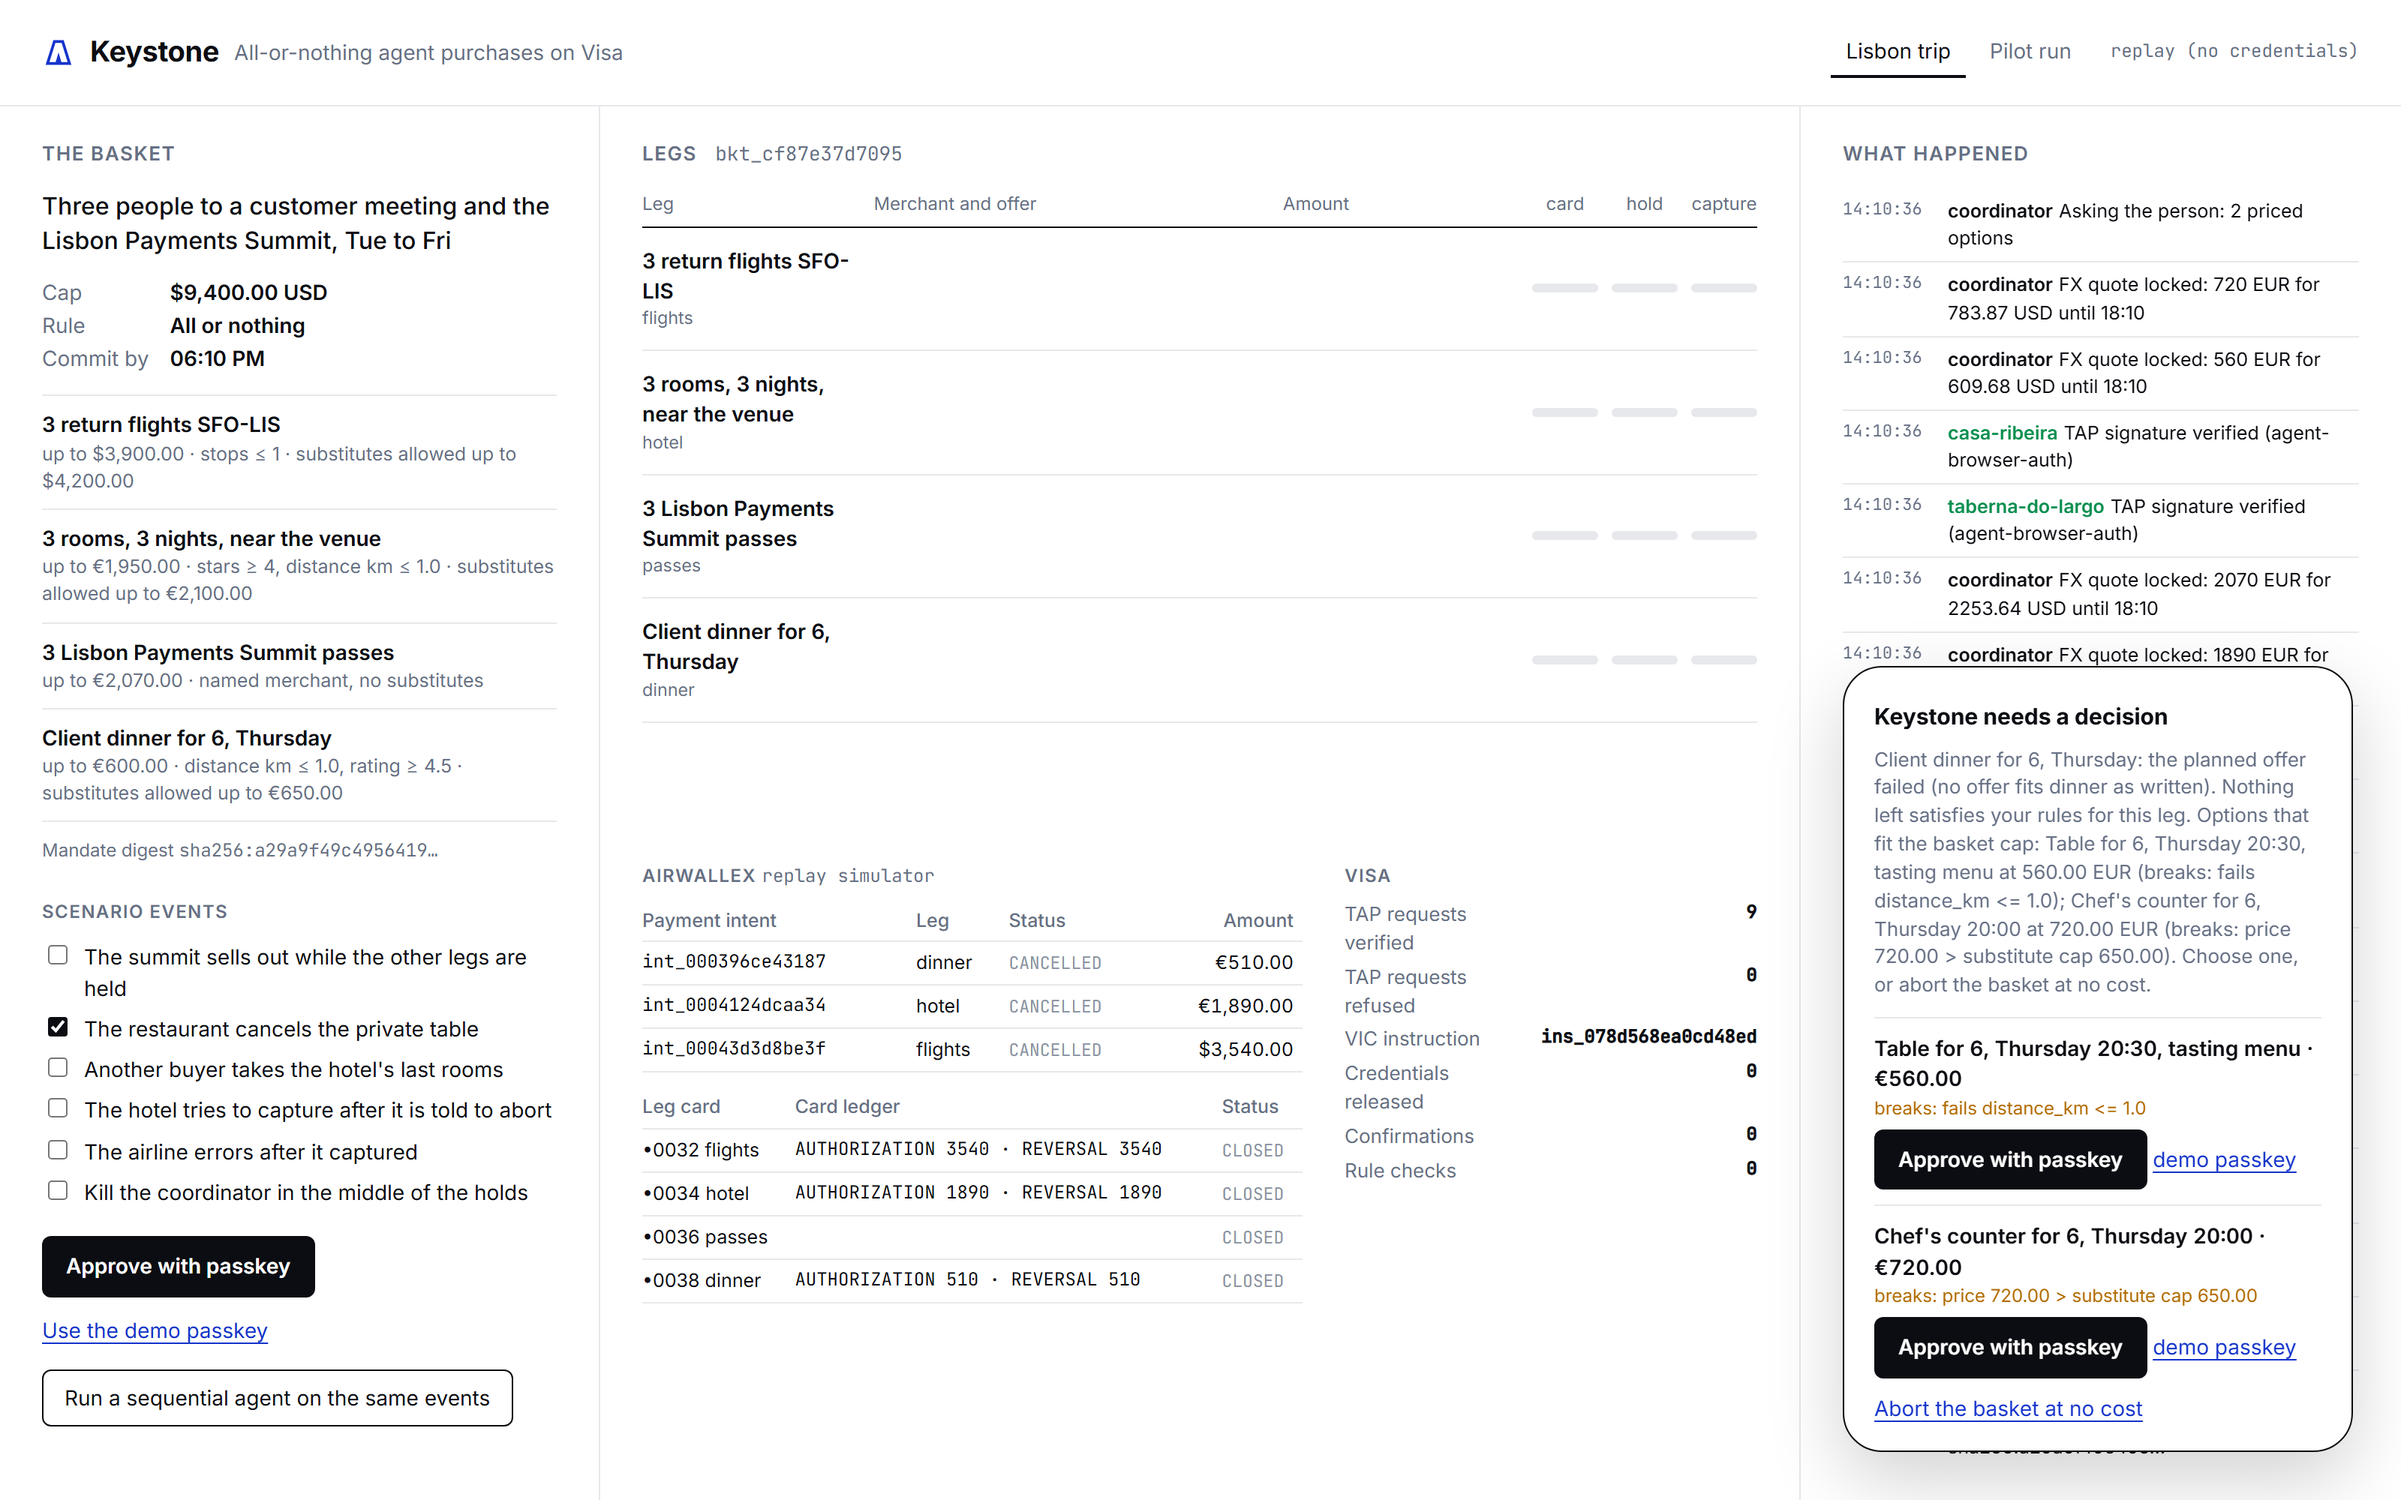
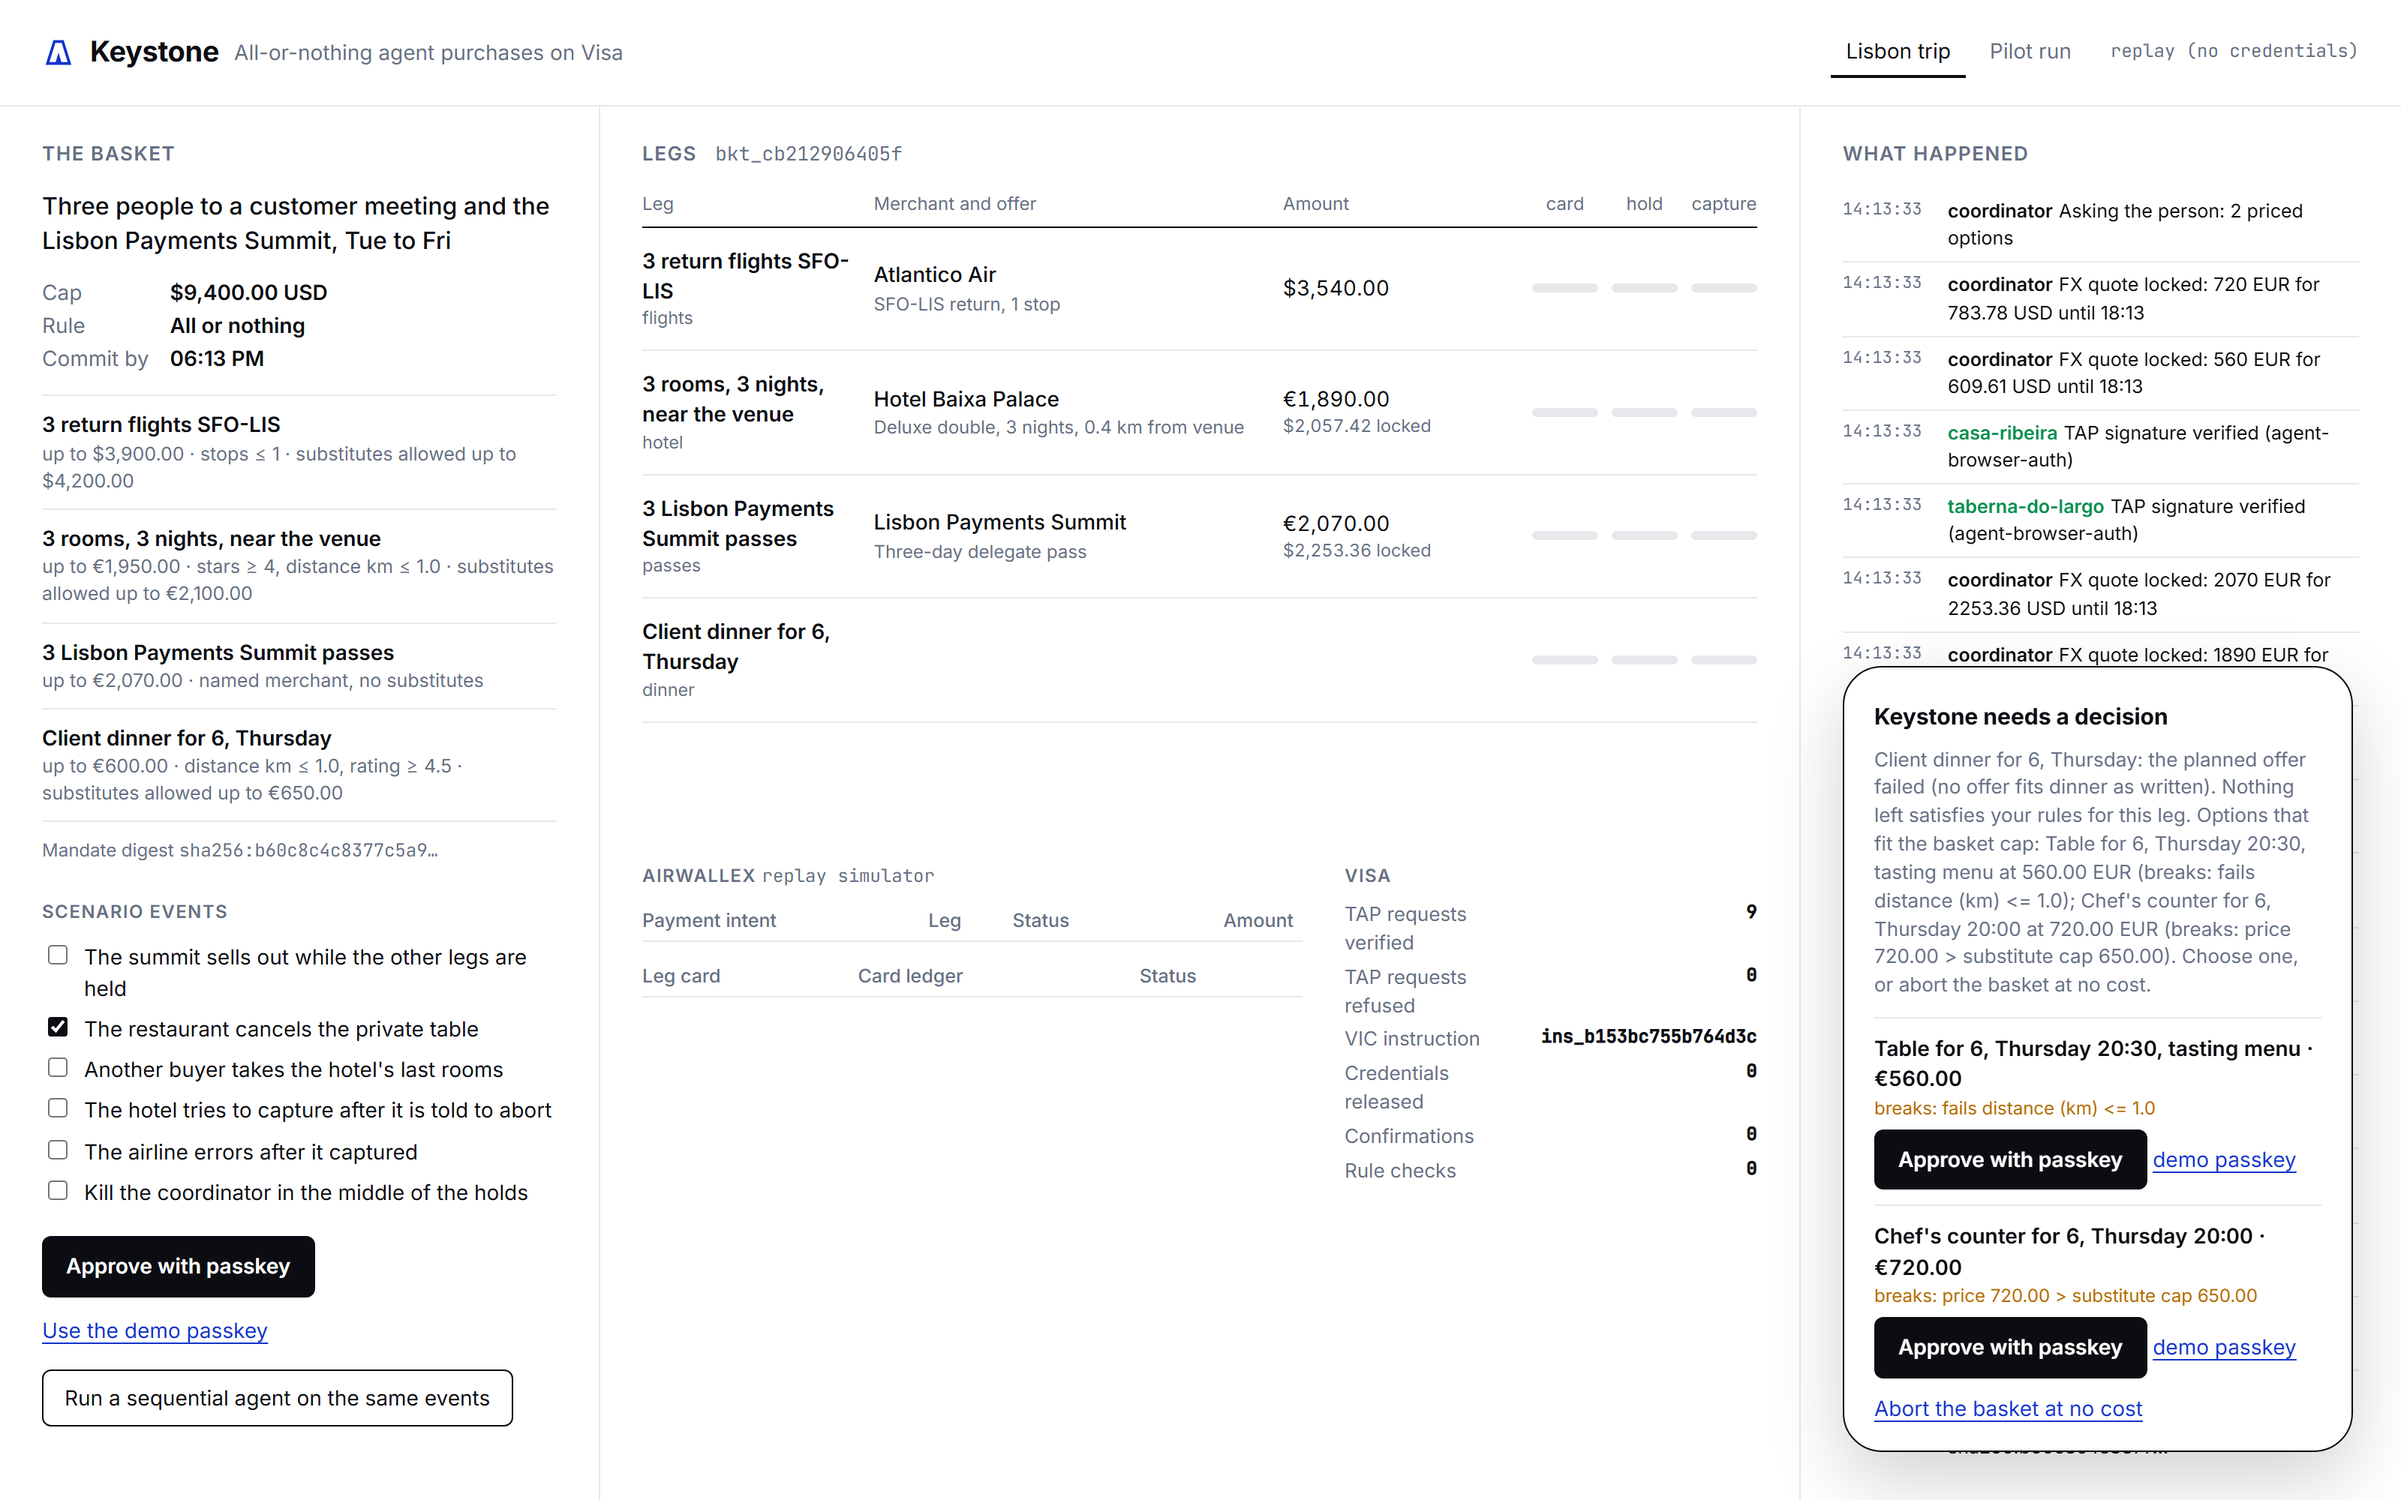
Show planned legs during plan-time escalation; clearer rule text; fresh screenshots; handoff

diff --git a/HANDOFF.md b/HANDOFF.md
@@ -1,0 +1,27 @@
+# Handoff (20 Oct 2026)
+
+State: built and tested in replay mode. 46 tests pass, 16 of 16 evidence cases pass, 4,800 simulated baskets with 0 errors. Not yet run against the Airwallex sandbox (no keys yet). Local git only, not pushed.
+
+## Run
+
+```
+.venv/Scripts/python -m keystone.serve          # console at http://localhost:8000
+.venv/Scripts/python -m pytest
+.venv/Scripts/python -m keystone.evidence       # rewrites docs/EVIDENCE.md
+.venv/Scripts/python -m keystone.sim --n 400 --sweep --out runs/sim ; python scripts/figures.py
+python scripts/drive_console.py --out docs/shots   # headless Chromium, virtual passkey; needs serve running
+```
+
+`serve` starts two processes: `keystone.world_server` (merchants on 8101-8116, Airwallex simulator on 8090) and `keystone.app` (console, coordinator, ledger on 8000). The crash event makes `keystone.app` exit with code 75; `serve` restarts it and recovery runs from `runs/console/journal.sqlite`.
+
+## Open items
+
+1. Airwallex sandbox keys, then `scripts/live_probe.py`, then a live basket (`KEYSTONE_MODE=live`). Things only the sandbox can answer: whether a SINGLE card accepts a second authorization after a reversal (Keystone already issues one card per attempt), whether an issued card can pay an Airwallex payment intent (the network bridge covers the case where it cannot), the exact simulation capture/reverse path (the client tries the lifecycle path, then the transaction path), and whether `pre_auth` holds behave in sandbox as documented.
+2. Anthropic key for the advisor (`KEYSTONE_ADVISOR=1`); without it the rule-written explanation is shown.
+3. Film, writeup, gallery; repo publishing and licence.
+
+## Known limits
+
+- The basket ledger lives in memory in the Keystone process. After a restart, a hold on an old basket's card is declined (card not in a basket), which fails closed.
+- Live mode holds each payment intent with Airwallex's test card and mirrors the issuer side through the bridge, unless the closed-loop probe shows issued cards can pay intents.
+- Hardware scenario amounts stay under the 9,999.99 simulation cap per authorization.
